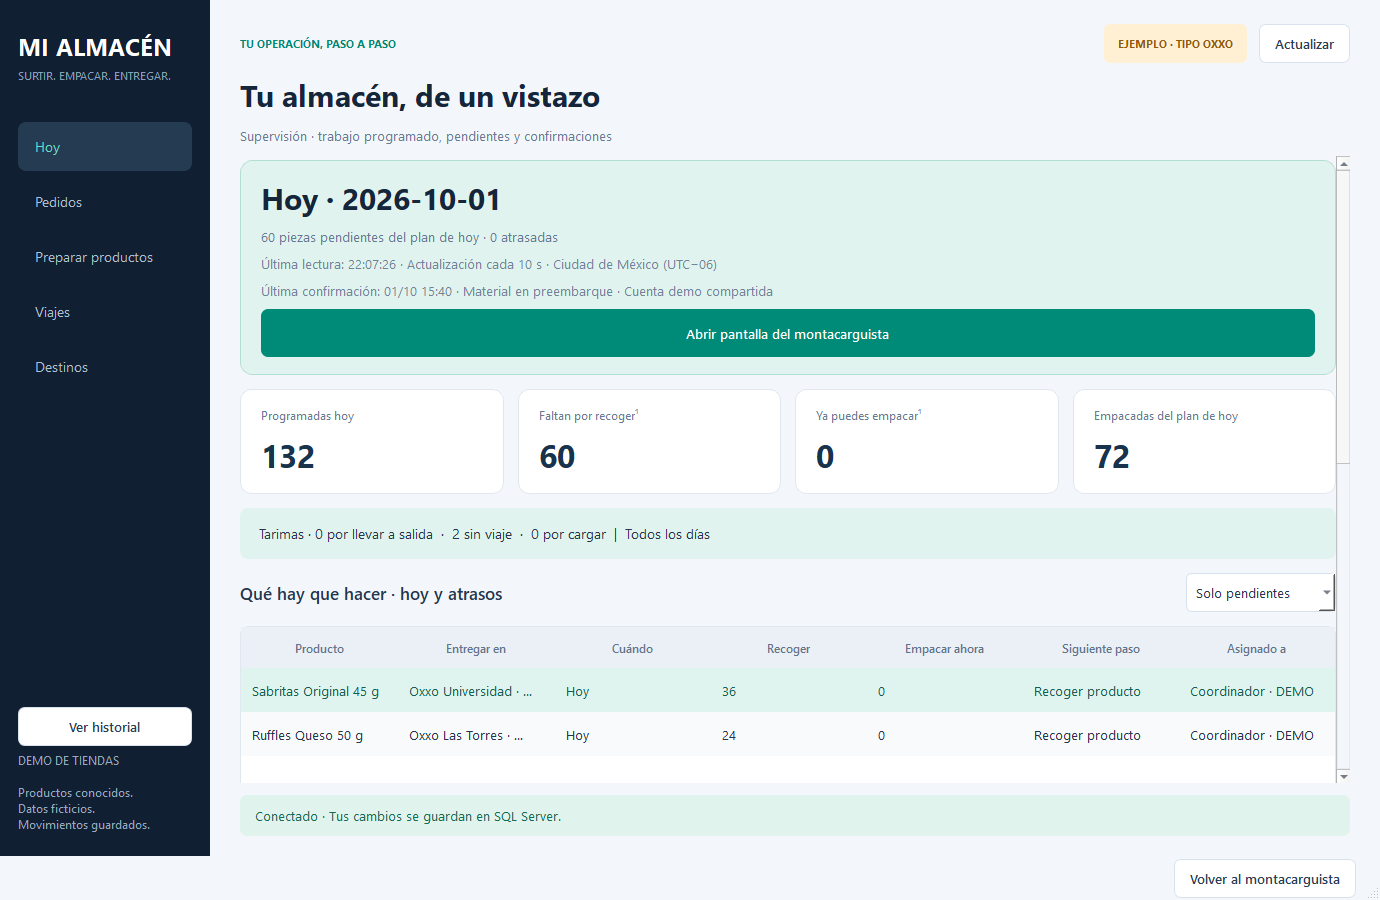
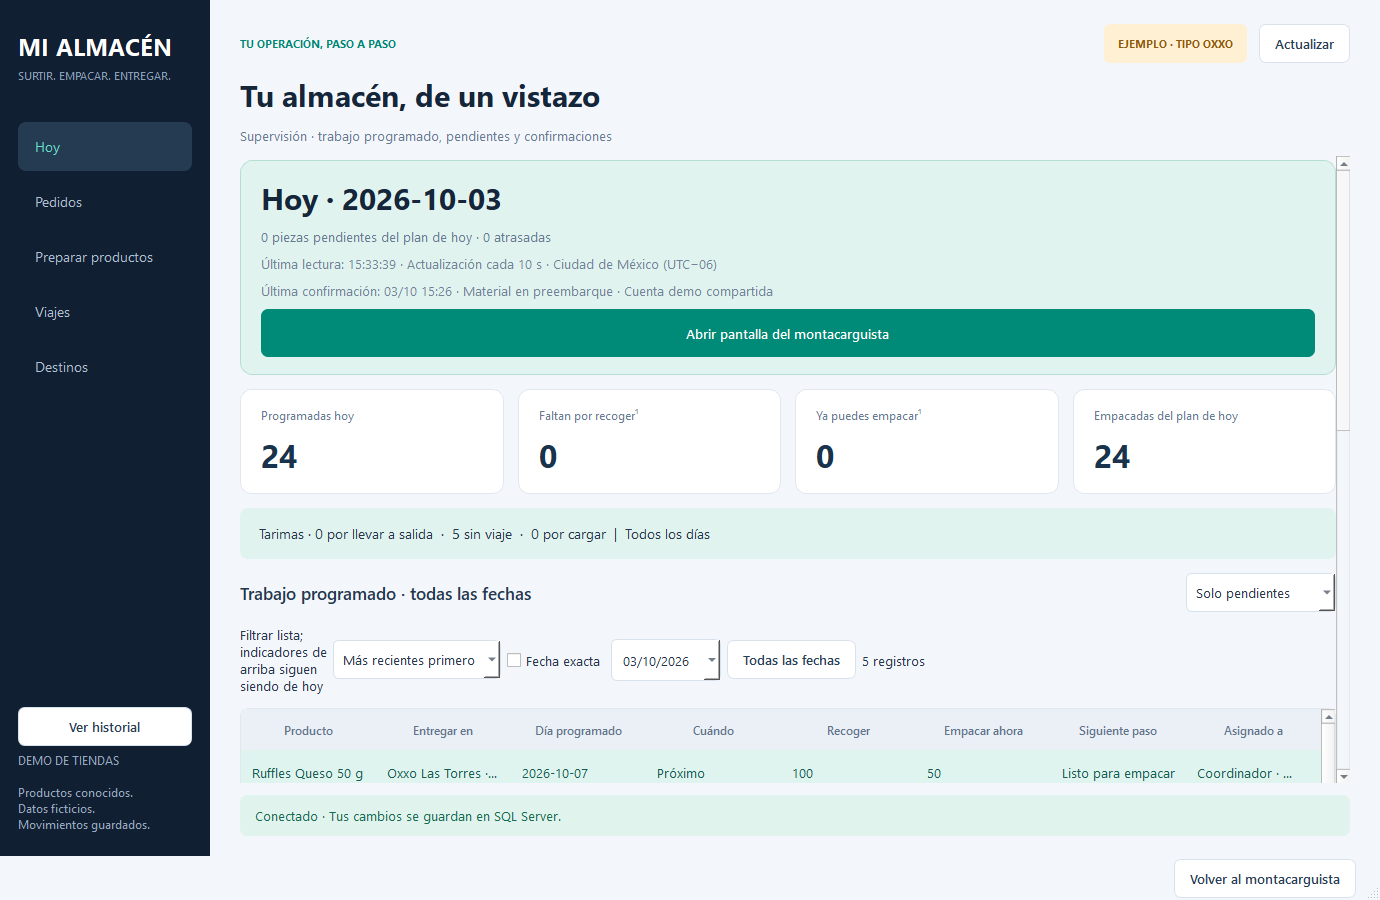
docs: publicar TXT legibles y guia de calendario y almacenes

diff --git a/docs/calendario-y-catalogos.md b/docs/calendario-y-catalogos.md
@@ -1,0 +1,39 @@
+# Calendario y catálogos familiares · 3 de octubre de 2026
+
+## Calendario del montacarguista
+
+Abre en hoy, con fecha de Ciudad de México. No admite seleccionar ayer.
+Hoy incluye tareas pendientes de días anteriores. Los días futuros son solo consulta: se ocultan confirmación, cantidad e incidencias. El endpoint del operador valida también la fecha antes de guardar, dentro de la transacción.
+La pantalla cambia el mínimo de fecha al avanzar el día; los reintentos conservan su identidad para no duplicar movimientos.
+
+El calendario muestra tareas PROGRAMADAS, no todas las entregas solicitadas en un archivo. Importar no planea automáticamente. Los atrasos se atienden desde hoy sin cambiar su fecha original.
+
+## Dos almacenes independientes
+
+- Almacén cuarto de Víctor: conserva el identificador del antiguo almacén demo y sus operaciones.
+- Almacén cuarto de Huicho: nuevo almacén con ubicaciones y capacidad propias.
+
+Coca-Cola, Sabritas y Ruffles se surten de Víctor; Doritos, agua Ciel y Gansito, de Huicho. La planeación toma la ubicación preferida del producto; no mueve tareas históricas a otro almacén. Cada almacén tiene su reserva de capacidad: 600 por almacén si se usa ese valor.
+Packing y movimientos conservan el almacén de la tarea. Los viajes se preparan por almacén; no se mezclan tarimas de ambos. Se conserva un solo tráiler demo, por lo que debe cerrarse el viaje abierto antes del siguiente.
+
+Todavía NO hay control de saldos físicos ni reservas de inventario. Dos almacenes independientes no implica que ya haya existencias capturadas.
+
+## Nuevos clientes y destinos
+
+La Ralde: 7 km. Oxxo: 1 km (última distancia mencionada). Salma: 20 km.
+Para el ejemplo se registran esas distancias desde ambos almacenes, como datos ficticios; no se calculan por mapa. Los destinos anteriores se conservan. Las distancias y nombres de viajes ya creados no se reescriben.
+
+## TXT legible
+
+Usar samples/txt/pedidos_legibles.txt desde Pedidos → Importar CSV o TXT.
+Se muestran primero QuienPidio, Producto, CantidadSolicitada, UnidadMedida, Destino, Almacen y FechaRequeridaEntrega. Al final quedan los identificadores necesarios para importar.
+Los nombres se validan contra los códigos y la ubicación preferida. Cambiar solo el nombre no cambia el producto o el almacén: se registra error.
+
+Contiene seis pedidos y 900 piezas, con entregas solicitadas del domingo 4 al miércoles 7 de octubre.
+El archivo anterior sigue siendo compatible. Las fechas de entrega no son las fechas de preparación: el planificador sigue trabajando de lunes a sábado.
+
+Los catálogos se crean al iniciar la demo, sin borrar pedidos existentes. El TXT nuevo no se importa automáticamente en la base de trabajo.
+
+## Verificación
+
+47 pruebas backend y 17 de interfaz. Incluyen rechazo de día pasado, consulta futura sin confirmación, rechazo en servidor de picking futuro, importación legible, nombres inconsistentes, dos almacenes, rechazo de mezcla de tarimas y recorrido de 900 piezas en viajes separados. Captura visual del calendario del operador revisada.

diff --git a/docs/fechas-y-txt.md b/docs/fechas-y-txt.md
@@ -1,0 +1,39 @@
+# Fechas y archivo TXT de prueba
+
+## Consultar fechas
+
+Las listas administrativas permiten ordenar de más recientes a más antiguas, invertir el orden y marcar Fecha exacta. Todas las fechas quita la búsqueda por día. El filtro se conserva al actualizar.
+
+- Hoy: la lista consulta todas las fechas programadas. Los indicadores superiores siguen referidos a hoy; no cambian con el filtro.
+- Pedidos: fecha solicitada de entrega.
+- Calendario y preparación: fecha programada.
+- Tarimas e historial de empaque: fecha real de creación de la tarima en SQL (una tarima por confirmación de empaque en esta demo), no el día programado.
+- Viajes: apertura del viaje; su lista de tarimas muestra fecha de empaque.
+- Destinos: fecha de alta, no de entrega.
+- Ver historial: fecha real de acción. Se consulta el historial completo de la demo, sin el anterior límite de 80 registros. El resumen de actividad conserva las últimas ocho acciones y lo indica.
+
+Los registros sin fecha quedan al final y no coinciden con una búsqueda exacta. Los horarios reales se presentan en CDMX, UTC−06 para esta demo. Ordenar la consulta no cambia el orden obligatorio de carga. El operador conserva su flujo y no tiene selector de fecha.
+
+## Importar TXT
+
+En Pedidos, pulsar Importar CSV o TXT y seleccionar:
+samples/txt/entregas_domingo_a_miercoles.txt
+
+Texto UTF-8, encabezado y ocho columnas separadas por |. CSV sigue usando comas. No es todavía el contrato definitivo de SAP.
+
+| Entrega solicitada | Producto | Piezas |
+|---|---|---:|
+| Domingo 4 de octubre de 2026 | Coca-Cola | 120 |
+| Lunes 5 de octubre de 2026 | Sabritas | 240 |
+| Martes 6 de octubre de 2026 | Ruffles | 180 |
+| Miércoles 7 de octubre de 2026 | Coca-Cola | 360 |
+
+Total: 900 piezas, cuatro pedidos con códigos DEMO-TXT-. Usa los catálogos ficticios existentes.
+
+Importar no programa, recoge, empaca ni embarca automáticamente. Las fechas son de entrega solicitada: el planificador conserva su calendario de lunes a sábado. Para atender una entrega de domingo se debe planear la preparación antes; la demo no retroprograma desde la fecha de entrega ni garantiza cumplimiento. Un pedido importado tarde conserva su fecha solicitada.
+
+El archivo se probó en una base SQL aislada; no se importó automáticamente a la base de trabajo. Reimportarlo no duplica pedidos.
+
+## Validación
+
+44 pruebas backend (incluye importación TXT real, fechas domingo-miércoles y duplicado) y 16 pruebas de interfaz aprobadas. Las pruebas de fecha cubren ambos órdenes, día exacto, cruce UTC/CDMX, fechas vacías, actualización y limpieza del filtro. Se revisó captura del supervisor con SQL local.

diff --git a/docs/inicio-companero.md b/docs/inicio-companero.md
@@ -63,3 +63,19 @@ Validación de publicación: 42 pruebas backend y 14 de interfaz aprobadas.
 ## Próxima tarea acordada
 
 Seguir la [guía de mejoras de usabilidad](tareas/mejorar-usabilidad.md): cinco pasos, reparto de trabajo y criterios de prueba. Son ajustes de presentación; no nuevas funciones.
+
+
+## Actualización del 4 de octubre
+
+Con tus cambios guardados, actualiza main con git pull --ff-only origin main.
+Abre Iniciar Demo.cmd para el operador o Iniciar Supervisor.cmd para ambas vistas.
+No hay dependencias nuevas ni nuevas tablas. Al iniciar se preparan los catálogos ficticios de ambos almacenes y los destinatarios.
+
+- Operador sin escaneo, con calendario: hoy permite confirmar; días futuros solo consulta.
+- Planeación de lunes a sábado, capacidad por almacén.
+- Filtros de fechas e historial de empaque.
+- Almacenes de Víctor y Huicho; destinatarios La Ralde (7 km), Oxxo (1 km) y Salma (20 km).
+- Importa samples/txt/pedidos_legibles.txt desde Pedidos → Importar CSV o TXT. El archivo no se carga automáticamente y sus fechas son fijas de prueba.
+
+Consulta [calendario y catálogos](calendario-y-catalogos.md) y [fechas y TXT](fechas-y-txt.md).
+Validación antes de publicar: 47 pruebas backend y 17 de interfaz aprobadas.

diff --git a/docs/vista-montacarguista.md b/docs/vista-montacarguista.md
@@ -31,3 +31,7 @@ Creados: backend/app/services/demo_operator.py, frontend/desktop/operator_window
 Modificados: consulta demo_queries.py (nombres de ubicaciones y referencias), main.py (consulta del operador), client.py (estado de errores HTTP), desktop_launcher.py (ventana inicial), prueba de autenticación y documentación.
 
 La pantalla administrativa window.py y el módulo demo_catalog.py no se modificaron en este incremento, para reducir cruces con la tarea de productos del compañero. Rama: codex/vista-montacarguista. Integrado en main junto con las mejoras posteriores de supervisión.
+
+## Ajuste del 3 de octubre de 2026
+
+Por solicitud del usuario, se recupera la confirmación directa por paso, sin escaneo ni dígitos verificadores. Se conserva la paleta oscura azul y verde. Permanecen cantidades parciales, incidencias y reintentos seguros. No se modifican pedidos ni reservas existentes. Validación: 5 pruebas de interfaz del operador y 7 de backend (incluye recorrido SQL y sábado).

diff --git a/docs/demo-escritorio.md b/docs/demo-escritorio.md
@@ -89,3 +89,9 @@ Remove-Item Env:RUN_SQL_INTEGRATION
 La prueba de recorrido crea una base _Test de nombre único y elimina únicamente esa base al terminar. No ejecutarla con datos de producción.
 
 Para generar el ejecutable se usa PyInstaller (dependencia de desarrollo); consultar scripts/compilar-demo.ps1. Un paquete compilado aceptado por las políticas del equipo no necesitaría Python instalado, pero sí SQL Server/ODBC y la configuración/carpeta del proyecto indicadas. Actualmente se usa Python para ejecutarla.
+
+## Calendario de trabajo
+
+Desde el 3 de octubre, la planeación admite lunes a sábado y omite domingos. La capacidad indicada también aplica al sábado. Las reservas existentes conservan su fecha; no se reprograman automáticamente. No hay bloqueo de picking o packing por el día actual.
+
+Consulta [filtros de fechas y ejemplo TXT](fechas-y-txt.md) para ordenar las listas, buscar un día e importar entregas de prueba.
